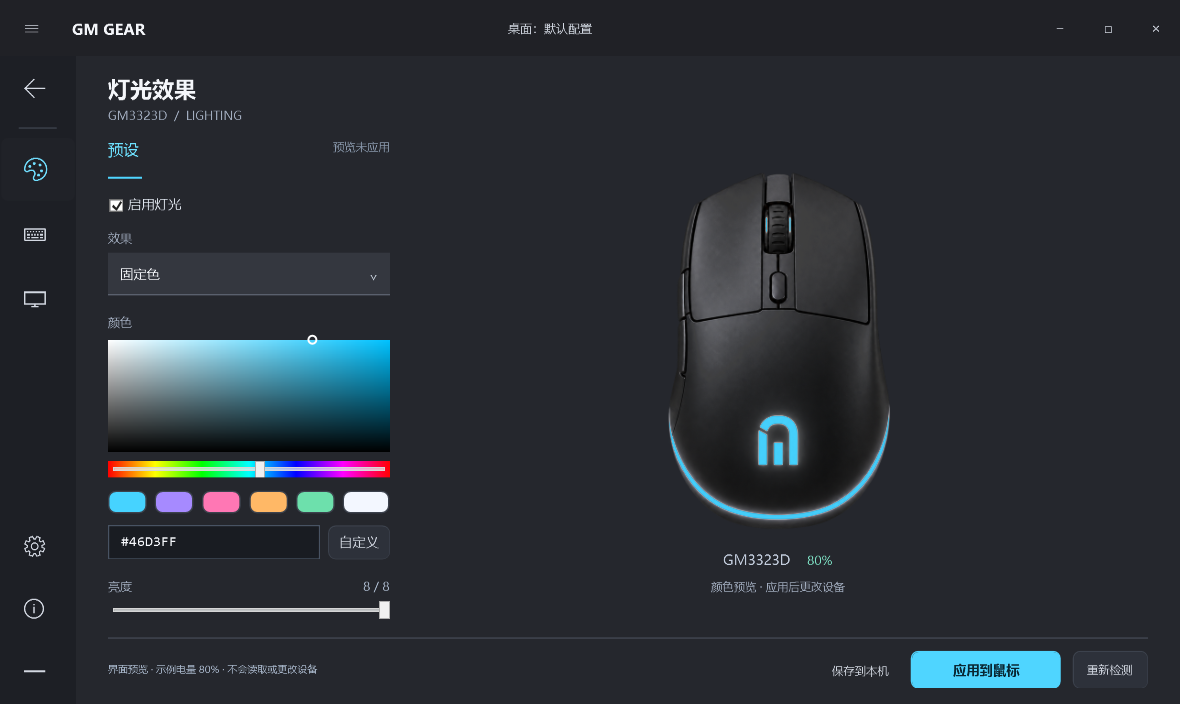
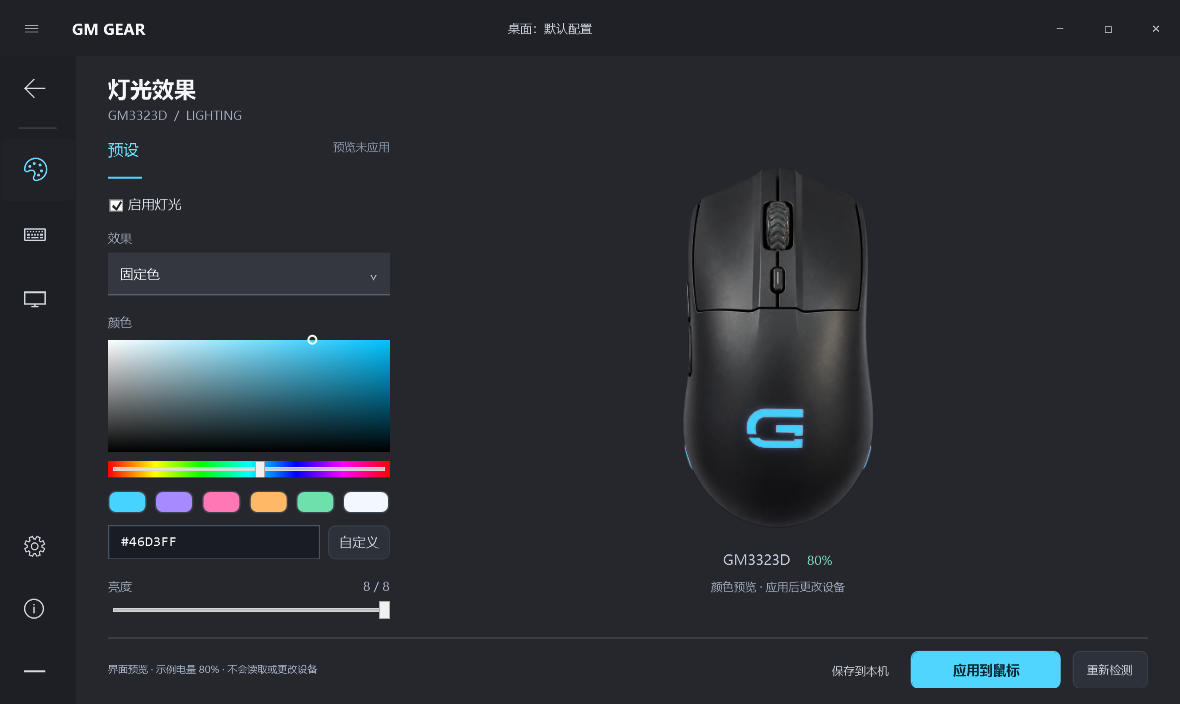
Match mouse artwork to user's three real reference photos

Changed region(s): [[0.5492, 0.25, 0.7627, 0.7188], [0.6102, 0.7188, 0.7017, 0.75]]

diff --git a/hub/MainWindow.xaml b/hub/MainWindow.xaml
@@ -36,7 +36,7 @@
     <Style TargetType="CheckBox"><Setter Property="Foreground" Value="#E1E7F0"/><Setter Property="VerticalContentAlignment" Value="Center"/><Setter Property="Margin" Value="0,8"/></Style>
     <ControlTemplate x:Key="MouseArt" TargetType="ContentControl">
       <Viewbox Stretch="Uniform"><Grid Width="760" Height="1150" ClipToBounds="True">
-        <Image Tag="ProductImage" Source="{Binding MouseImage}" Width="1280" Height="1280" Margin="-260,-60,0,0" HorizontalAlignment="Left" VerticalAlignment="Top" RenderOptions.BitmapScalingMode="HighQuality"/>
+        <Image Tag="ProductImage" Source="{Binding MouseImage}" Stretch="Uniform" RenderOptions.BitmapScalingMode="HighQuality"/>
       </Grid></Viewbox>
     </ControlTemplate>
     <Style TargetType="ListBoxItem">
@@ -121,7 +121,7 @@
           </StackPanel></Border>
           <Border x:Name="AboutPage" Visibility="Collapsed" Background="#23262E" CornerRadius="14" Padding="34"><StackPanel MaxWidth="650" HorizontalAlignment="Left">
             <TextBlock Text="GM GEAR" FontFamily="Segoe UI" FontSize="40" FontWeight="Bold" Foreground="#75DFFF"/><TextBlock Text="为 GM3323D 打造的独立外设控制中心" FontSize="16" Margin="0,10,0,25"/>
-            <TextBlock Text="v0.1.1 · Windows 桌面版" Style="{StaticResource Muted}"/>
+            <TextBlock Text="v0.1.2 · Windows 桌面版" Style="{StaticResource Muted}"/>
             <TextBlock Text="灯光和电量实现基于 Evan816Z / GM3323D-MouseLight，按 MIT 许可证二次开发。保留上游源码与版权声明，重做独立界面及 HID 适配层。" Foreground="#BAC5D6" Margin="0,25,0,14" LineHeight="25"/>
             <TextBlock Text="这是独立开发的鼠标控制软件，未与罗技或戴尔关联。" Style="{StaticResource Muted}" LineHeight="23"/>
             <Button x:Name="SourceButton" Content="查看上游项目  ↗" HorizontalAlignment="Left" Margin="0,28,0,0"/>

diff --git a/hub/MouseArtwork.cs b/hub/MouseArtwork.cs
@@ -13,7 +13,21 @@ namespace GearHub {
         static ImageSource image;
         public static ImageSource Image {get {
             if(image==null)using(var stream=Assembly.GetExecutingAssembly().GetManifestResourceStream("GearHub.MouseProduct")){
-                var bitmap=BitmapFrame.Create(stream,BitmapCreateOptions.None,BitmapCacheOption.OnLoad);bitmap.Freeze();image=bitmap;
+                var bitmap=BitmapFrame.Create(stream,BitmapCreateOptions.None,BitmapCacheOption.OnLoad);
+                // Fit the actual product rather than relying on offsets from a previous render.
+                // Crop only in WPF memory; the original PNG and its alpha remain unchanged.
+                var rgba=new FormatConvertedBitmap(bitmap,PixelFormats.Bgra32,null,0);
+                int width=rgba.PixelWidth,height=rgba.PixelHeight,stride=width*4;
+                byte[] pixels=new byte[stride*height];rgba.CopyPixels(pixels,stride,0);
+                int left=width,top=height,right=-1,bottom=-1;
+                for(int y=0;y<height;y++)for(int x=0;x<width;x++){
+                    if(pixels[y*stride+x*4+3]<16)continue;
+                    left=Math.Min(left,x);top=Math.Min(top,y);right=Math.Max(right,x);bottom=Math.Max(bottom,y);
+                }
+                if(right>=left&&bottom>=top){
+                    left=Math.Max(0,left-8);top=Math.Max(0,top-8);right=Math.Min(width-1,right+8);bottom=Math.Min(height-1,bottom+8);
+                    var cropped=new CroppedBitmap(bitmap,new Int32Rect(left,top,right-left+1,bottom-top+1));cropped.Freeze();image=cropped;
+                }else{bitmap.Freeze();image=bitmap;}
             }
             return image;
         }}
@@ -38,7 +52,7 @@ float power : register(c1);
 float4 main(float2 uv : TEXCOORD) : COLOR {
     float4 p=tex2D(image,uv);
     float3 rgb=p.rgb/max(p.a,0.0001);
-    float mask=smoothstep(0.55,0.9,min(rgb.r,min(rgb.g,rgb.b)));
+    float mask=step(0.55,uv.y)*smoothstep(0.55,0.9,min(rgb.r,min(rgb.g,rgb.b)));
     float3 output=lerp(rgb,rgb*tint.rgb*power,mask);
     return float4(output*p.a,p.a);
 }";

diff --git a/hub/AssemblyInfo.cs b/hub/AssemblyInfo.cs
@@ -2,6 +2,6 @@ using System.Reflection;
 [assembly:AssemblyTitle("GM GEAR")]
 [assembly:AssemblyProduct("GM3323D Gear Hub")]
 [assembly:AssemblyDescription("Independent GM3323D desktop control center")]
-[assembly:AssemblyVersion("0.1.1.0")]
-[assembly:AssemblyFileVersion("0.1.1.0")]
+[assembly:AssemblyVersion("0.1.2.0")]
+[assembly:AssemblyFileVersion("0.1.2.0")]
 [assembly:AssemblyCopyright("Based on GM3323D-MouseLight, copyright (c) 2026 tongz. MIT License.")]

diff --git a/docs/ARTWORK.md b/docs/ARTWORK.md
@@ -1,8 +1,21 @@
 # 鼠标素材
 
-最终素材：`hub/resources/mouse-product.png`，已内嵌到 `GM-GearHub.exe`。参考用户提供的 GM3323D 实物照片，用内置 image_gen（imagegen skill）生成透明背景产品图，然后按反馈摆正掌心标志。不是厂商官方渲染图，可能存在细节偏差。
+最终素材：`hub/resources/mouse-product.png`，已内嵌到 `GM-GearHub.exe`。**v0.1.2 按用户新提供的俯视、左侧、右侧三张实拍重做**，替换早期方向错误的示意图。使用内置 image_gen（imagegen skill），不是厂商官方渲染图，仍可能有细节偏差。原始私人照片不随仓库或软件分发。
 
-保留实际外形、滚轮、DPI 按钮和侧键；尾部灯带和掌心标志为中性白，软件运行时只对高亮灯光区域着色。源 PNG 的 alpha 保持不变；界面中的裁切、大小和颜色预览在 WPF 渲染层完成，不改写素材。
+修正横向、开口向右的掌心标志，保留滚轮人字纹、小 DPI 键、左侧双侧键及细长外形。尾部灯带位于下沿侧面，俯视只显示少量侧边光，不再画成外壳上的明亮 U 形边框。PNG 为 1254×1254 RGBA，透明通道保留；软件在 WPF 内存里按有效透明边界适配比例，鼠标不再依赖旧素材的固定偏移。灯光着色仅作用于下半部高亮区域，滚轮和前部按键保留原色。
+
+## v0.1.2 最终提示词（内置工具）
+
+Use case: precise-object-edit / product-mockup.
+Asset type: replacement product cutout inside a Windows GM3323D mouse configuration app.
+Input images: image 1 (top photograph, d828dc63...) is the PRIMARY edit target and exact identity reference. Images 2 and 3 are supporting right/left side photographs of that exact same mouse.
+Primary request: isolate and clean up the actual mouse from the primary photograph into one photorealistic studio product PNG. Remove the blue desk, hand, pen, containers, and every background object. Correct the small overall perspective/roll so the scroll wheel points straight up and the rear points straight down, centered with the complete mouse visible. Preserve the actual long black silhouette, shell curvature, front button seams, chevron-pattern rubber wheel, small narrow DPI button behind it, and the two compact trapezoid side buttons on its LEFT side. Do not substitute another gaming mouse.
+CRITICAL LOGO: reproduce the real palm mark exactly as in the primary photograph, a HORIZONTAL stylized G-like angular symbol open toward the RIGHT. Its top and lower strokes run LEFT TO RIGHT across the palm. The curved part is on the LEFT, and the short inner horizontal stroke and squared ends are on the RIGHT. Its width is greater than its height. Do NOT rotate that logo into an upright arch, a lowercase n, or headphone shape. Preserve the logo's orientation relative to the mouse exactly as photographed.
+CRITICAL LED PLACEMENT: the side photographs show a thin light strip under the rear lower edge ONLY, ending around the rear third of each side. The primary TOP view does NOT show a bright U-shaped outline around the upper palm shell. Keep the top silhouette plain black, with only a subtle thin glimpse of neutral-white light at the LOWER SIDE edges near the tail. Do NOT invent a bright continuous U rim drawn on top of the mouse or a front/perimeter strip.
+Materials and lighting: clean matte/satin black plastic with gentle neutral studio highlights, remove dirt and fingerprints without redesigning shapes. The palm logo and subtle rear side strip should emit neutral WHITE for runtime RGB tinting. No blue cast across the shell, no giant glow, no ground reflection or cast shadow.
+Composition: straight nearly orthographic top view matching the primary photograph, product vertical with zero yaw, entire mouse centered, roughly 80% canvas height, square canvas with comfortable transparent breathing room. Real transparent alpha background, no checkerboard, no black backdrop baked in, no captions, no watermarks. This is an accurate reference-based correction, NOT a redesign.
+
+## 历史记录（以下为已替换的旧图提示词）
 
 ## 生成提示词
 

diff --git a/docs/VALIDATION.md b/docs/VALIDATION.md
@@ -1,6 +1,15 @@
-# GM GEAR v0.1.1 验证记录
+# GM GEAR 验证记录
 
 日期：2026-10-25。针对新软件；原 GM3323D / 蓝牙耳机电量查看器保持独立。
+
+## v0.1.2 外观修正
+
+- 根据新三张实拍替换产品图，核对横向掌心标志、人字纹滚轮与尾部侧灯带。
+- 检查源 PNG 为 RGBA，alpha 范围 0–255；显示裁切仅在内存中完成，不修改源图。
+- 重新编译并完成 24 项既有协议和 UI 检查，导出主页与灯光页进行目视核对；不调用实机灯光测试、不改变用户当前灯效。
+- 灯光着色限制在下半部高亮区域，避免滚轮、DPI 按钮上的高光跟随变色。
+
+以下保留 v0.1.1 的硬件协议验证记录。
 
 ## 灯光故障与修复
 

diff --git a/README.md b/README.md
@@ -6,6 +6,8 @@
 
 ## 当前功能
 
+v0.1.2 根据用户三张实拍修正设备外观：横向掌心标志、人字纹滚轮、左侧双侧键、尾部下沿侧灯带；移除错误的顶面 U 形灯框。主页与灯光页使用同一素材，保留 RGB 预览。
+
 - **设备主页**：GM3323D 连接状态与实测电量，点击鼠标进入配置。
 - **灯光面板**：8 种已知灯效、开关、HSV 取色、HEX 输入、颜色预设、1–8 档亮度；白色灯带和掌心标志随所选颜色与亮度预览，保留鼠标外壳材质。
 - **明确应用**：只有点击“应用到鼠标”才发送设置。保存到本机只保存草稿；启动、重连和载入草稿均不会自动写设备。
